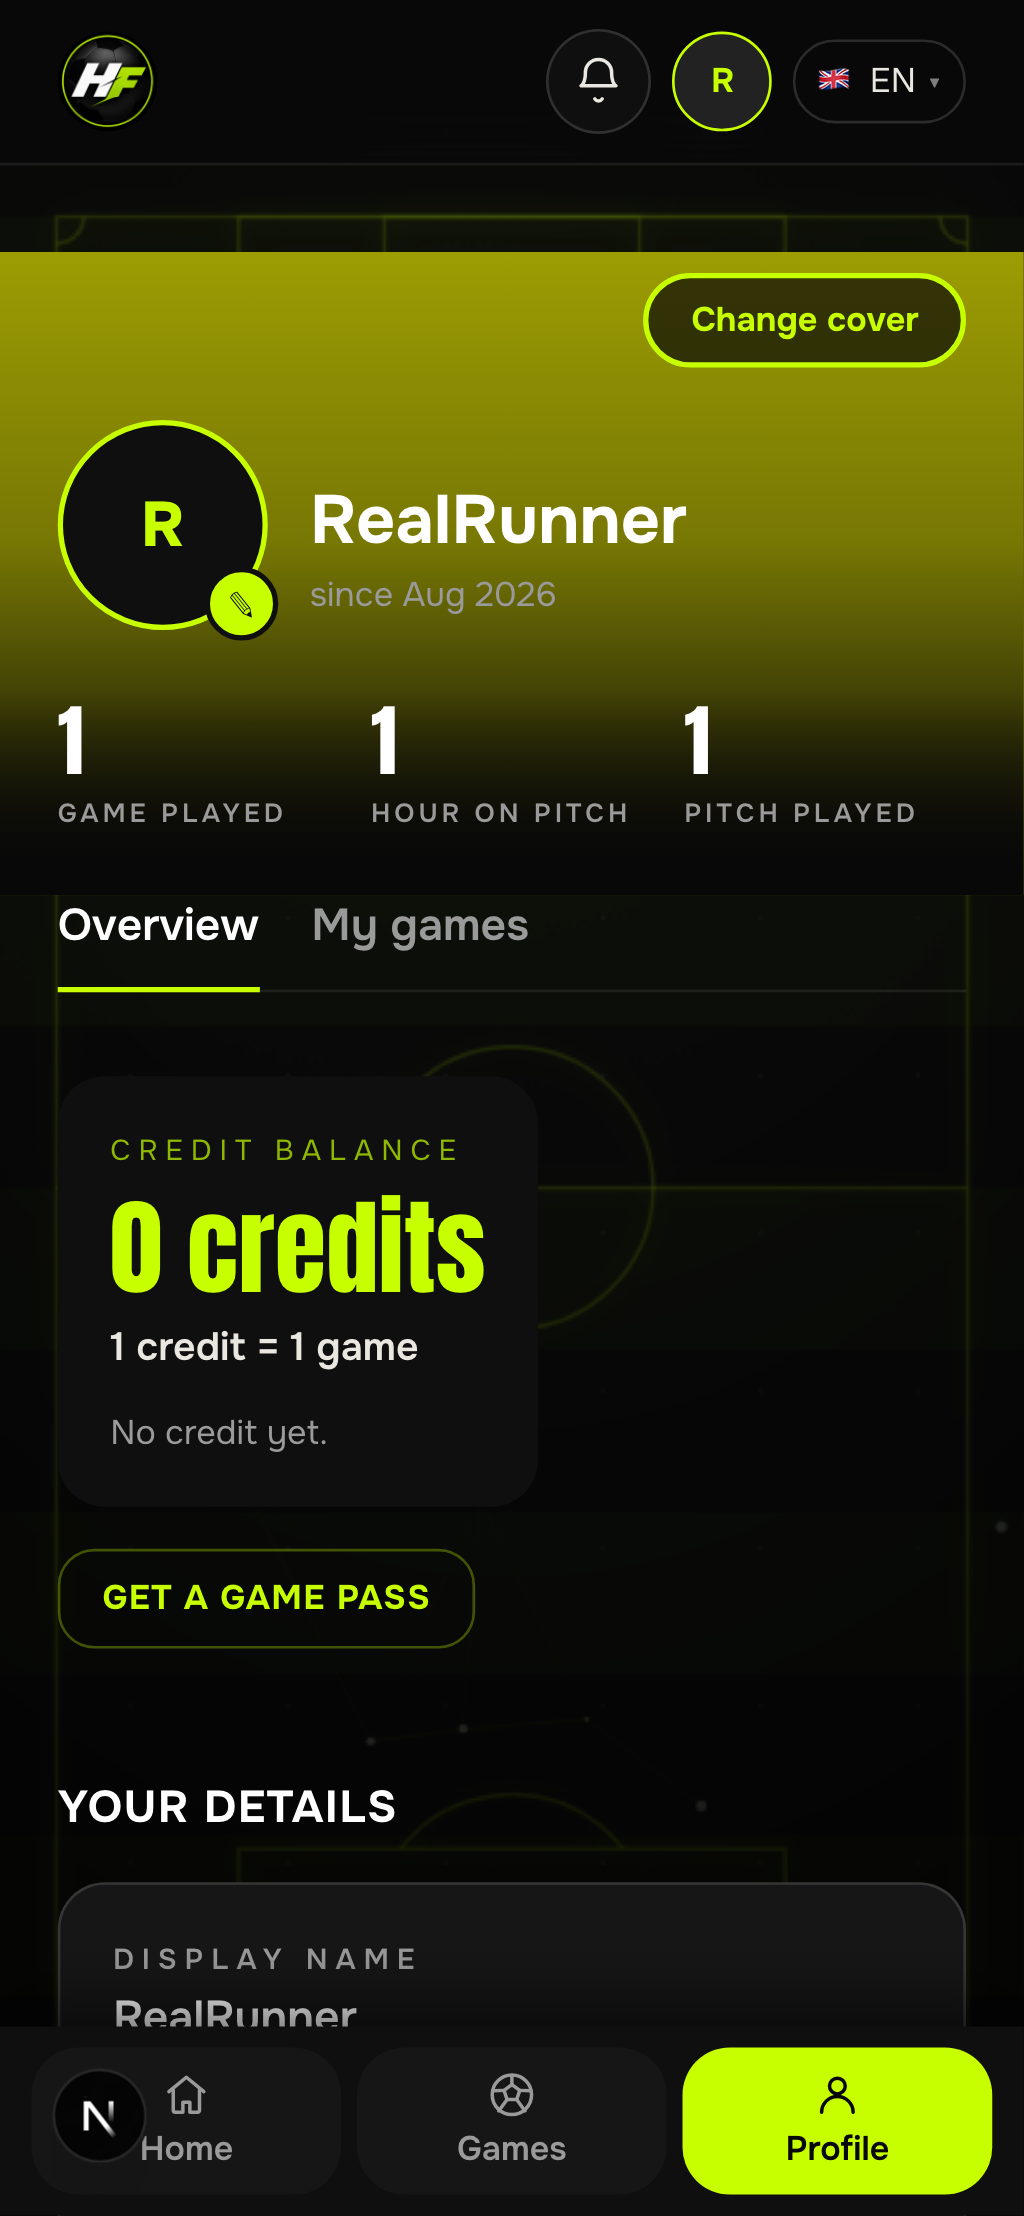
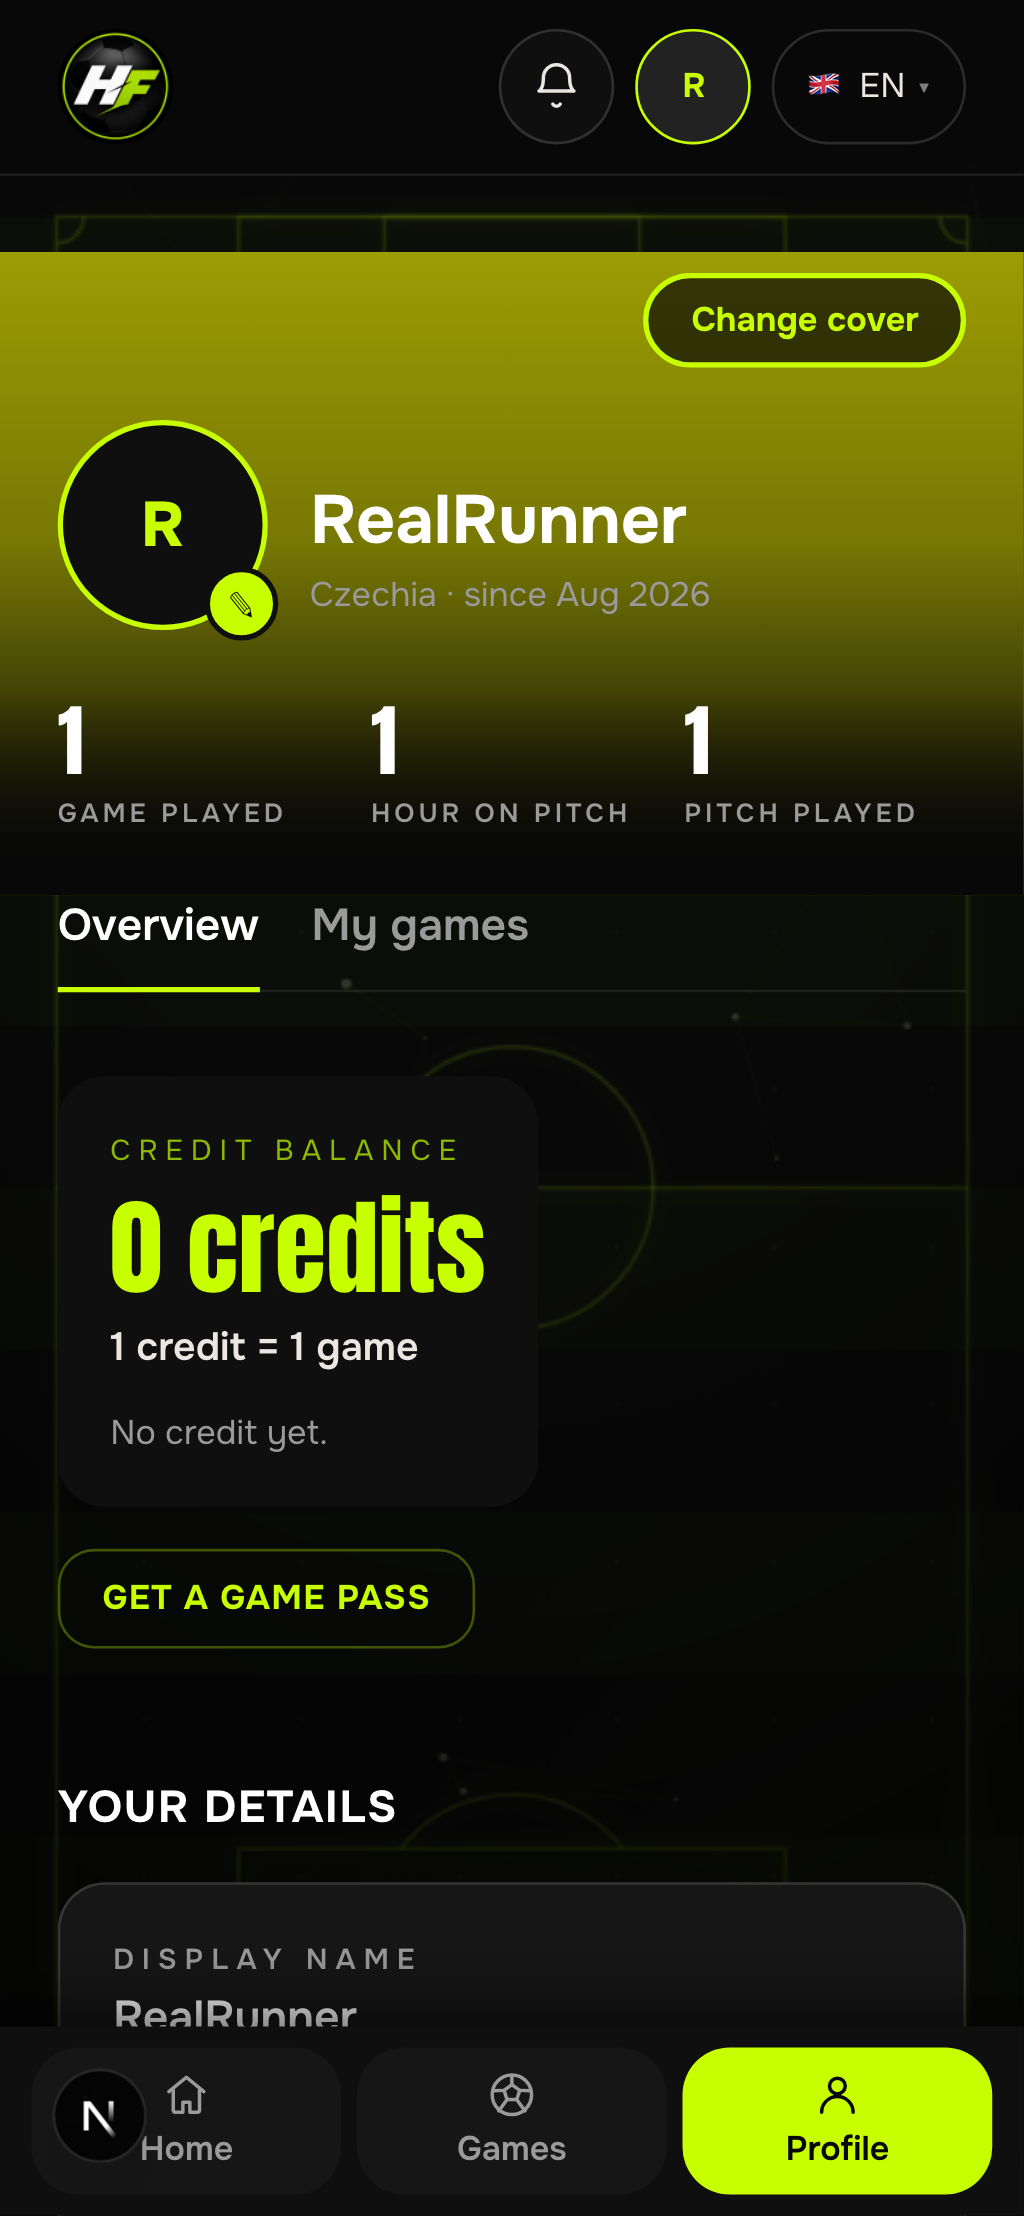
Round 21 item 3: lint is green again, and one suppression was suppressing nothing
TWO PRE-EXISTING ERRORS, NEITHER FROM THE SHELF. `react-hooks/
set-state-in-effect` fires twice in PhotoCropper, untouched since round
16 — `eslint-config-next` 16.2.10 carries the rule and earlier rounds
were running `next lint`, which in Next 16 exits with "Invalid project
directory" and reports nothing. The green I printed on those rounds came
from a command that was not linting. Saying so here because the fix is
cheap and the false green was not.

THE OFFSET EFFECT IS NOW ADJUSTED DURING RENDER, which is React's own
pattern for state that must follow changed props. As an effect it painted
the illegal position first and the clamped one a frame later.

THE OBJECT URL STAYS AN EFFECT, and the rule is suppressed with evidence
rather than argument. The obvious rewrite — useMemo plus a revoke on
cleanup — BREAKS THE CROPPER: StrictMode's simulated unmount runs the
cleanup, revoking the URL, and the remount re-uses the memo's dead value.
Four specs caught it (photo-cropper x2, profile-cover x2, all timing out
on an image that never loads). Restored, and the reason is in the file.

GameCard's img suppression had a JSX comment between the directive and
the element, so it silenced nothing and the warning fired 21 lines down.
A suppression that is not suppressing reads as handled and is not.

Changed region(s): [[0.5312, 0.0, 0.9375, 0.0623], [0.3125, 0.2491, 0.6875, 0.2802], [0.0625, 0.0, 0.1562, 0.0623]]

diff --git a/components/account/PhotoCropper.tsx b/components/account/PhotoCropper.tsx
@@ -76,9 +76,27 @@ export function PhotoCropper({
    * AN OBJECT URL, REVOKED ON THE WAY OUT. A data URL would base64 a phone
    * photo into memory twice over; this hands the decoder the blob it already
    * has. Leaking it would pin the whole file for the life of the tab.
+   *
+   * IT STAYS AN EFFECT, AND THE LINT RULE IS SUPPRESSED WITH EVIDENCE
+   * (round 21). `react-hooks/set-state-in-effect` calls this a cascading
+   * render and it is right in general — the first paint has no image. The
+   * obvious rewrite, `useMemo(() => URL.createObjectURL(file), [file])` plus a
+   * revoke on cleanup, **BREAKS THE CROPPER**, and four specs caught it:
+   * `photo-cropper` ×2 and `profile-cover` ×2, all timing out waiting for an
+   * image that never loads.
+   *
+   * WHY: StrictMode mounts, unmounts and remounts. The simulated unmount runs
+   * the cleanup, which REVOKES the URL, and the remount re-uses the memo's
+   * cached value — a dead blob URL that no decoder will ever resolve. The
+   * lifetime of this resource has to match the mount, and only an effect knows
+   * when that is.
+   *
+   * The flash the rule warns about is one frame of an empty frame in a dialog
+   * the player just opened. A dialog that never shows the photograph is worse.
    */
   useEffect(() => {
     const next = URL.createObjectURL(file);
+    // eslint-disable-next-line react-hooks/set-state-in-effect -- see above; the memo rewrite fails four specs
     setUrl(next);
     return () => URL.revokeObjectURL(next);
   }, [file]);
@@ -113,21 +131,32 @@ export function PhotoCropper({
     [frame, displayed.w, displayed.h],
   );
 
-  // Centre whenever the geometry changes — a new image, or a zoom that made
-  // the current offset illegal.
-  useEffect(() => {
-    if (!frame || !natural) return;
-    setOffset((current) => {
-      const centred =
-        current.x === 0 && current.y === 0
-          ? { x: (frame.w - natural.w * baseScale * zoom) / 2, y: (frame.h - natural.h * baseScale * zoom) / 2 }
-          : current;
-      return {
-        x: Math.min(0, Math.max(frame.w - natural.w * baseScale * zoom, centred.x)),
-        y: Math.min(0, Math.max(frame.h - natural.h * baseScale * zoom, centred.y)),
-      };
+  /*
+   * Centre whenever the geometry changes — a new image, or a zoom that made
+   * the current offset illegal.
+   *
+   * ADJUSTED DURING RENDER, NOT IN AN EFFECT (round 21). This is React's own
+   * pattern for state that must react to changed props: compare the geometry
+   * against the one this offset was computed for, and correct it before
+   * painting. As an effect it painted the ILLEGAL position first and the
+   * corrected one a frame later, which is visible as a jump while zooming.
+   * `setState` during render of the same component is legal and re-renders
+   * before anything reaches the screen.
+   */
+  const geometry =
+    frame && natural ? `${frame.w}x${frame.h}|${natural.w}x${natural.h}|${scale}` : null;
+  const [offsetGeometry, setOffsetGeometry] = useState<string | null>(null);
+  if (geometry && geometry !== offsetGeometry && frame && natural) {
+    setOffsetGeometry(geometry);
+    const centred =
+      offset.x === 0 && offset.y === 0
+        ? { x: (frame.w - displayed.w) / 2, y: (frame.h - displayed.h) / 2 }
+        : offset;
+    setOffset({
+      x: Math.min(0, Math.max(frame.w - displayed.w, centred.x)),
+      y: Math.min(0, Math.max(frame.h - displayed.h, centred.y)),
     });
-  }, [frame, natural, baseScale, zoom]);
+  }
 
   function onPointerDown(event: React.PointerEvent<HTMLDivElement>) {
     event.currentTarget.setPointerCapture(event.pointerId);

diff --git a/components/game/GameCard.tsx b/components/game/GameCard.tsx
@@ -174,7 +174,6 @@ export async function GameCard({
         scrim element covers the photo exactly. Values derived from the frames.
       */}
       <span aria-hidden className="pointer-events-none absolute inset-0 overflow-hidden rounded-card">
-        {/* eslint-disable-next-line @next/next/no-img-element */}
         {/*
           THE CROP IS BOTTOM-ANCHORED, NOT CENTRED (round 7, item 3).
 
@@ -195,6 +194,7 @@ export async function GameCard({
           file is a second thing to keep in step; this is the same image read
           differently by one surface.
         */}
+        {/* eslint-disable-next-line @next/next/no-img-element */}
         <img
           src={photo}
           alt=""
